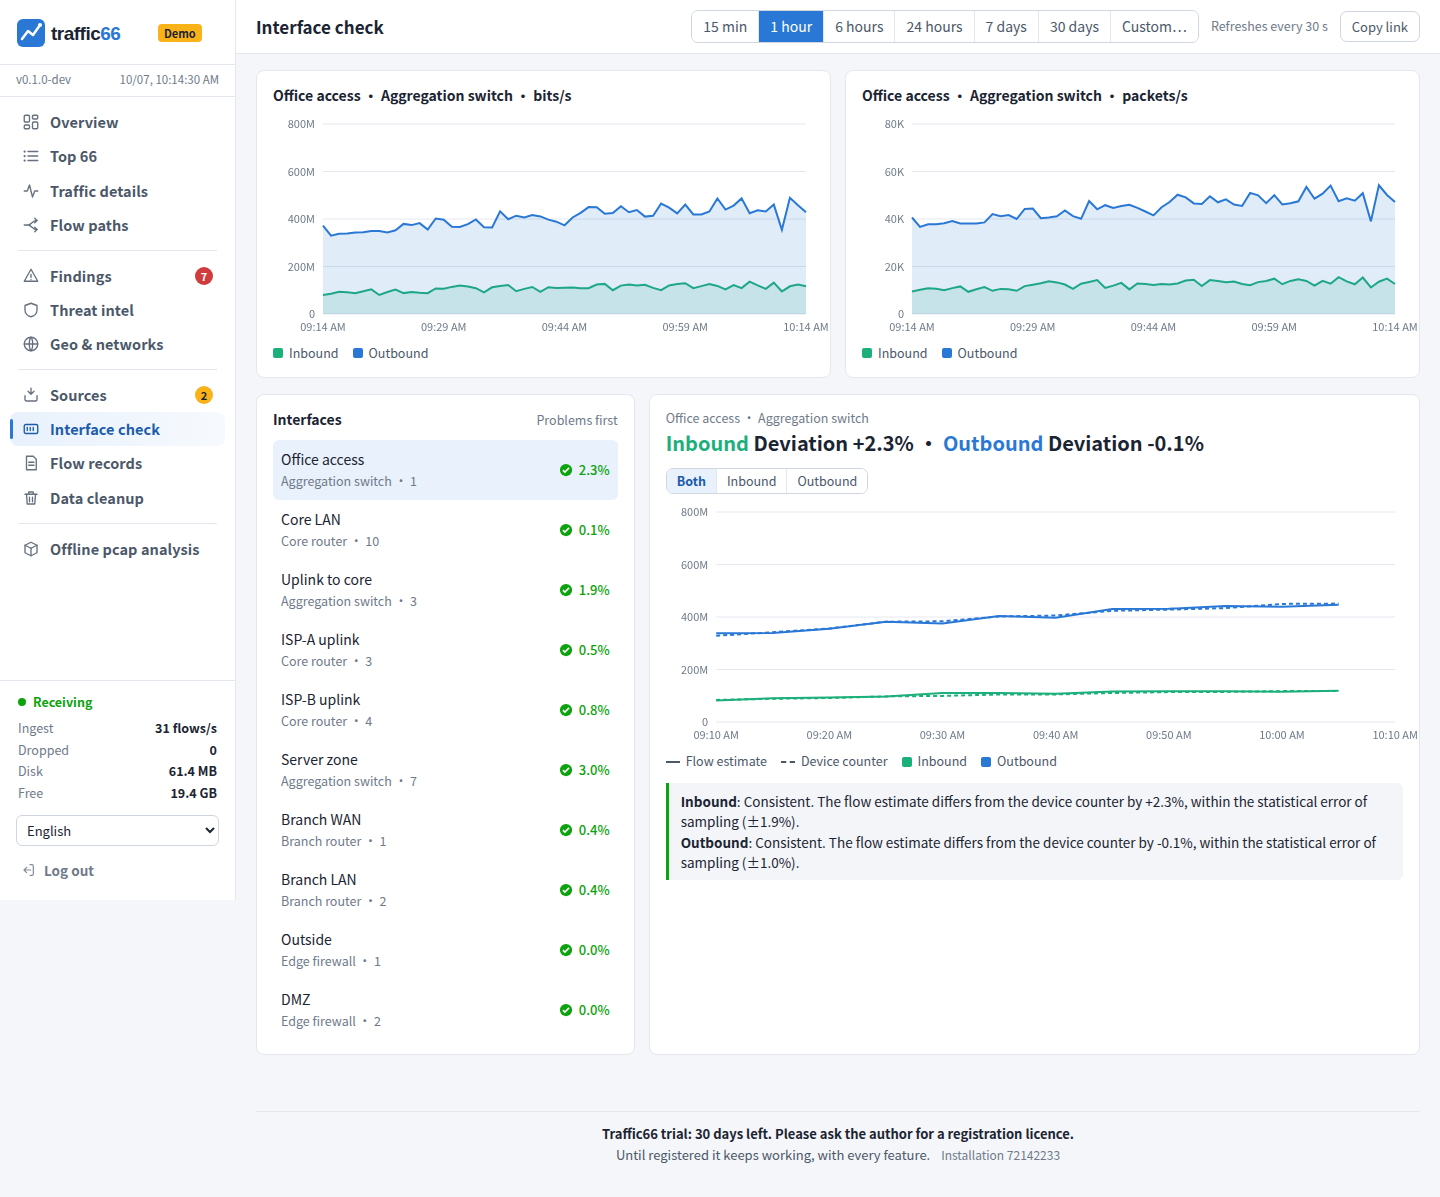
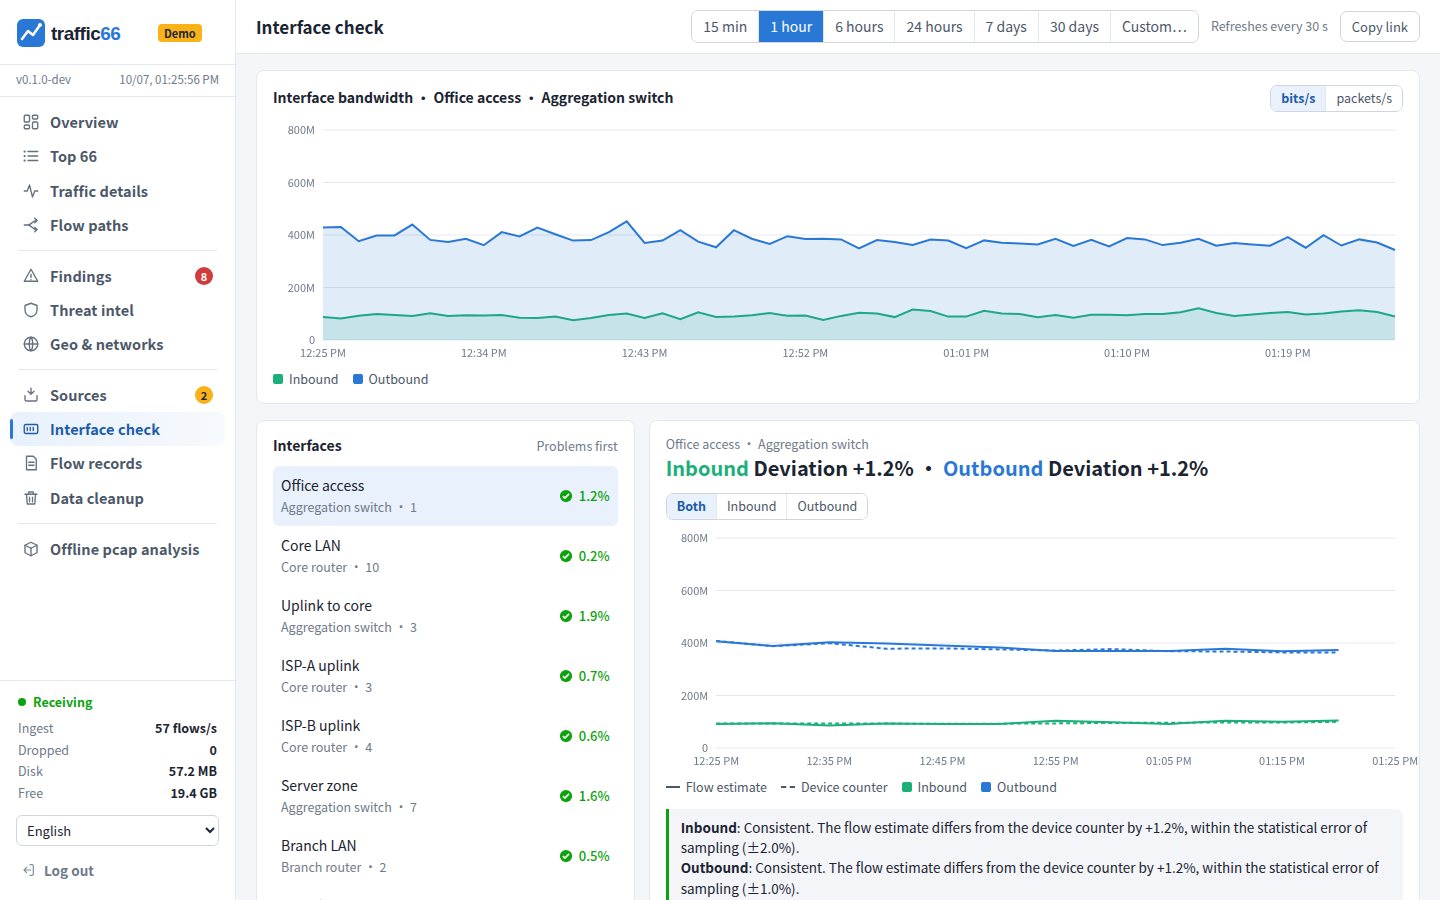
Interface check: one Interface bandwidth chart with a bits/s | packets/s switch
Claude-Session: https://claude.ai/code/session_01XEUxFQp8ivofZLm1o6KiXm

diff --git a/internal/web/static/app.js b/internal/web/static/app.js
@@ -1243,24 +1243,25 @@ views.ifaces = async (el) => {
   const key = state.ifc.exporter + '/' + state.ifc.ifindex, sel = list.find(f => f.exporter === state.ifc.exporter && f.ifindex === state.ifc.ifindex);
   // one device's interface: count everything it saw, also traffic another device reported too
   const fil = [...state.f, {f: 'iface', v: key, neg: false}];
-  const [ri, ro, pi, po, rc] = await Promise.all([['if_in', 'wire'], ['if_out', 'wire'], ['if_in', 'pkts'], ['if_out', 'pkts']].map(([by, measure]) => api('series', {by, measure, top: 20, dup: 1}, fil))
+  const pps = state.ifm === 'pps', measure = pps ? 'pkts' : 'wire';
+  const [ri, ro, rc] = await Promise.all([['if_in', measure], ['if_out', measure]].map(([by, measure]) => api('series', {by, measure, top: 20, dup: 1}, fil))
     .concat([api('recon', {exporter: state.ifc.exporter, ifindex: state.ifc.ifindex})]));
   const pick = s => { const i = (s.names || []).indexOf(key); return i < 0 ? (s.times || []).map(() => 0) : s.values[i]; };
   const sum = a => a.reduce((x, y) => x + y, 0);
   const name = `${ifName(sel)} · ${sel.device || sel.exporter}`;
   const leg = (vi, vo, fmt) => `<div class="legend"><span><i style="background:${IF_IN}"></i>${t('if.in')}</span><span><i style="background:${IF_OUT}"></i>${t('if.out')}</span></div>`;
   el.innerHTML = `<div class="grid" style="margin-bottom:16px">
-    ${panel('c6', `${esc(name)} · ${t('ch.bps')}`, '', `<div class="chart" id="ifB" style="height:220px" aria-label="${esc(t('ch.bps'))}"></div>${leg()}`)}
-    ${panel('c6', `${esc(name)} · ${t('ch.pps')}`, '', `<div class="chart" id="ifP" style="height:220px" aria-label="${esc(t('ch.pps'))}"></div>${leg()}`)}</div>
+    <div class="panel c12"><div class="ph"><h2>${t('if.bw')} · ${esc(name)}</h2><div class="seg" role="group" style="margin-inline-start:auto">${['bps', 'pps'].map(k => `<button data-m="${k}" aria-pressed="${(state.ifm || 'bps') === k}">${t('ch.' + k)}</button>`).join('')}</div></div>
+      <div class="chart" id="ifB" style="height:240px" aria-label="${esc(t('if.bw'))}"></div>${leg()}</div></div>
     <div class="grid">
     ${panel('c4', t('if.title'), t('if.sub'), `<div class="iflist">${list.map(f => {
       const k = devKind(f), cur = f.exporter === state.ifc.exporter && f.ifindex === state.ifc.ifindex;
       return `<button data-e="${esc(f.exporter)}" data-i="${f.ifindex}" aria-current="${cur}"><span>${esc(ifName(f))}<br><span class="muted" style="font-size:12.5px">${esc(f.device || f.exporter)} · ${f.ifindex}</span></span>${k ? status(k, nf(Math.max(Math.abs(f.in_dev), Math.abs(f.out_dev)) * 100, 1) + '%') : `<span class="muted" style="font-size:12.5px">${t('if.no_ctr_short')}</span>`}</button>`;
     }).join('')}</div>`)}
     <div class="panel c8" id="recon"></div></div>`;
-  const bitsIn = pick(ri), bitsOut = pick(ro);
-  tsChart($('#ifB'), {times: ri.times, lines: [{name: t('if.in'), color: IF_IN, data: bitsIn, fill: true}, {name: t('if.out'), color: IF_OUT, data: bitsOut, fill: true}]});
-  tsChart($('#ifP'), {times: pi.times, fmtY: fmtAxisBps, fmtV: fmtPps, lines: [{name: t('if.in'), color: IF_IN, data: pick(pi), fill: true}, {name: t('if.out'), color: IF_OUT, data: pick(po), fill: true}]});
+  const ln = [{name: t('if.in'), color: IF_IN, data: pick(ri), fill: true}, {name: t('if.out'), color: IF_OUT, data: pick(ro), fill: true}];
+  tsChart($('#ifB'), pps ? {times: ri.times, fmtY: fmtAxisBps, fmtV: fmtPps, lines: ln} : {times: ri.times, lines: ln});
+  el.querySelectorAll('[data-m]').forEach(b => b.onclick = () => { state.ifm = b.dataset.m; render(); });
   el.querySelectorAll('.iflist button').forEach(b => b.onclick = () => { state.ifc = {exporter: b.dataset.e, ifindex: +b.dataset.i}; render(); });
 
   const r = rc.recon, dir = state.ifdir || 'both';

diff --git a/CHANGELOG.md b/CHANGELOG.md
@@ -72,8 +72,9 @@ Pages
   services with their servers. A switch puts either side inside.
 - Flow paths shortens long names to 22 characters; the full name shows on
   hover.
-- Interface check: ingress (green) and egress (blue) in one chart per
-  measure, for the interface picked in the list; the comparison with the
+- Interface check: one chart, **Interface bandwidth**, with ingress
+  (green) and egress (blue) and a bits/s | packets/s switch, for the
+  interface picked in the list; the comparison with the
   device counters shows both directions by default.
 - Names: a form (type, address, name) and a table with Edit and Delete,
   with addresses and networks checked; adding the same address again
